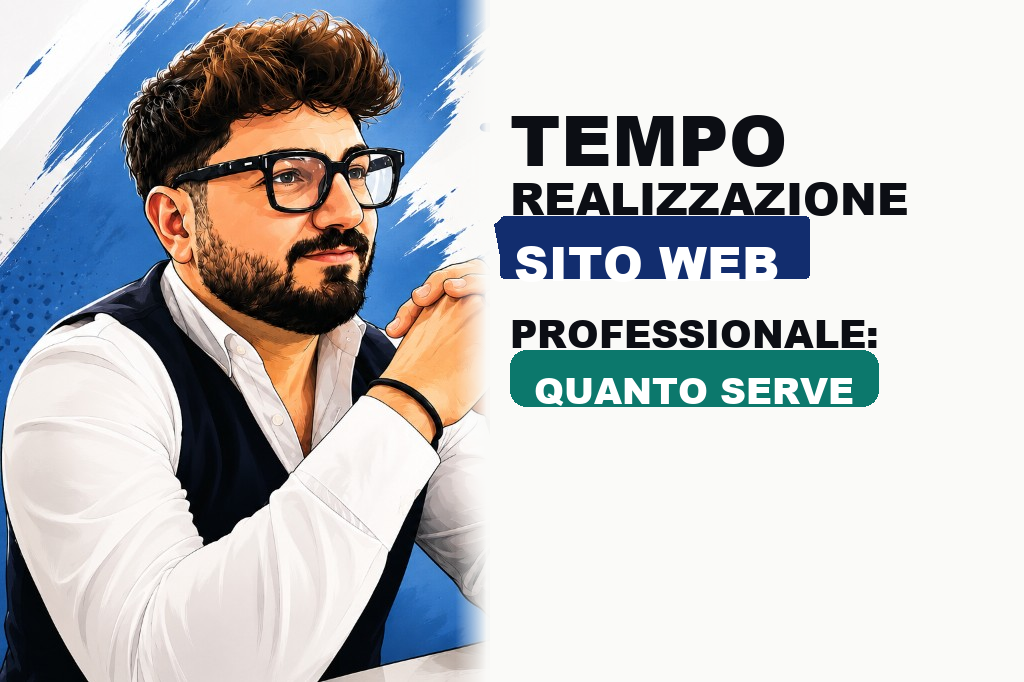
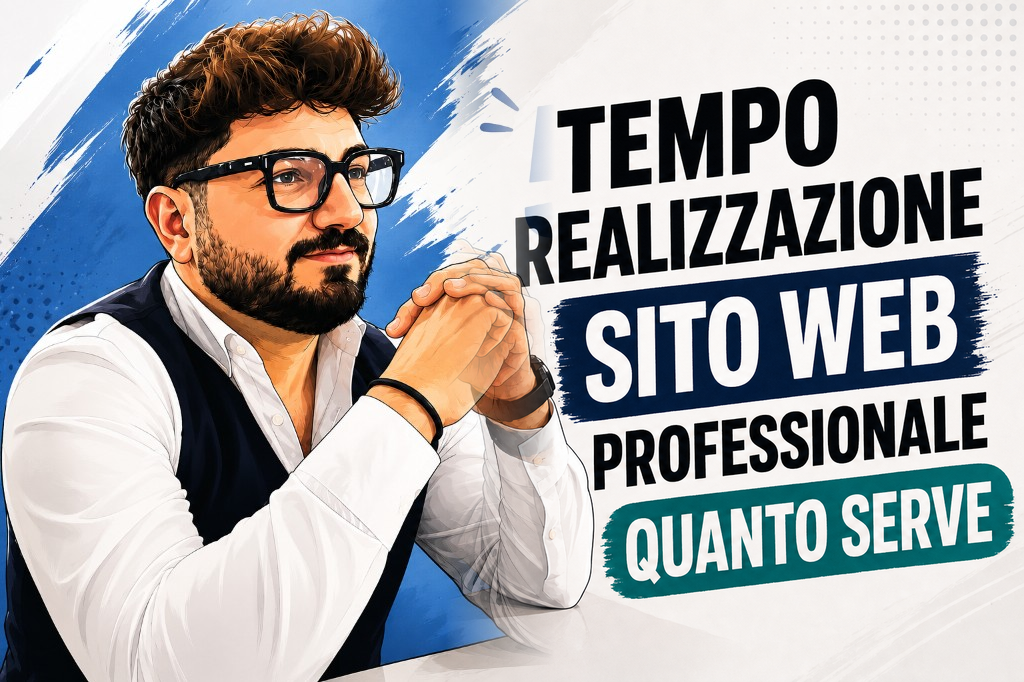
Allinea l’anteprima tempi allo stile esatto delle altre cover blog.

Changed region(s): [[0.4375, 0.0, 1.0, 1.0], [0.875, 0.0, 1.0, 0.0616]]

diff --git a/tempo-realizzazione-sito-web.html b/tempo-realizzazione-sito-web.html
@@ -13,7 +13,7 @@
   <meta property="og:description" content="Cosa influenza i tempi di un sito professionale: brief, contenuti, complessità. Dal sito vetrina a progetti come CivicOS e Cala del Sol.">
   <meta property="og:type" content="article">
   <meta property="og:url" content="https://evolodigitalstudio.it/tempo-realizzazione-sito-web.html">
-  <meta property="og:image" content="https://evolodigitalstudio.it/assets/blog/tempo-realizzazione-sito-web.png?v=2">
+  <meta property="og:image" content="https://evolodigitalstudio.it/assets/blog/tempo-realizzazione-sito-web.png?v=3">
   <meta property="og:locale" content="it_IT">
   <meta property="article:published_time" content="2026-07-26">
   <meta property="article:author" content="Fabio — Evolo Digital Studio">
@@ -54,7 +54,7 @@
           }
         },
         "mainEntityOfPage": "https://evolodigitalstudio.it/tempo-realizzazione-sito-web.html",
-        "image": "https://evolodigitalstudio.it/assets/blog/tempo-realizzazione-sito-web.png?v=2",
+        "image": "https://evolodigitalstudio.it/assets/blog/tempo-realizzazione-sito-web.png?v=3",
         "inLanguage": "it-IT",
         "keywords": "tempo realizzazione sito web"
       }
@@ -112,7 +112,7 @@
             </div>
           </div>
           <figure class="article-cover">
-            <img src="assets/blog/tempo-realizzazione-sito-web.png?v=2" alt="Tempo realizzazione sito web professionale: quanto serve" width="1024" height="682" loading="eager">
+            <img src="assets/blog/tempo-realizzazione-sito-web.png?v=3" alt="Tempo realizzazione sito web professionale: quanto serve" width="1024" height="682" loading="eager">
           </figure>
         </div>
       </header>

diff --git a/blog.html b/blog.html
@@ -135,7 +135,7 @@
 
           <article class="blog-card blog-card--featured reveal">
             <a href="tempo-realizzazione-sito-web.html" class="blog-card__media">
-              <img src="assets/blog/tempo-realizzazione-sito-web.png?v=2" alt="Tempo realizzazione sito web professionale: quanto serve" width="1024" height="682" loading="eager">
+              <img src="assets/blog/tempo-realizzazione-sito-web.png?v=3" alt="Tempo realizzazione sito web professionale: quanto serve" width="1024" height="682" loading="eager">
             </a>
             <div class="blog-card__body">
               <div class="blog-card__meta">
